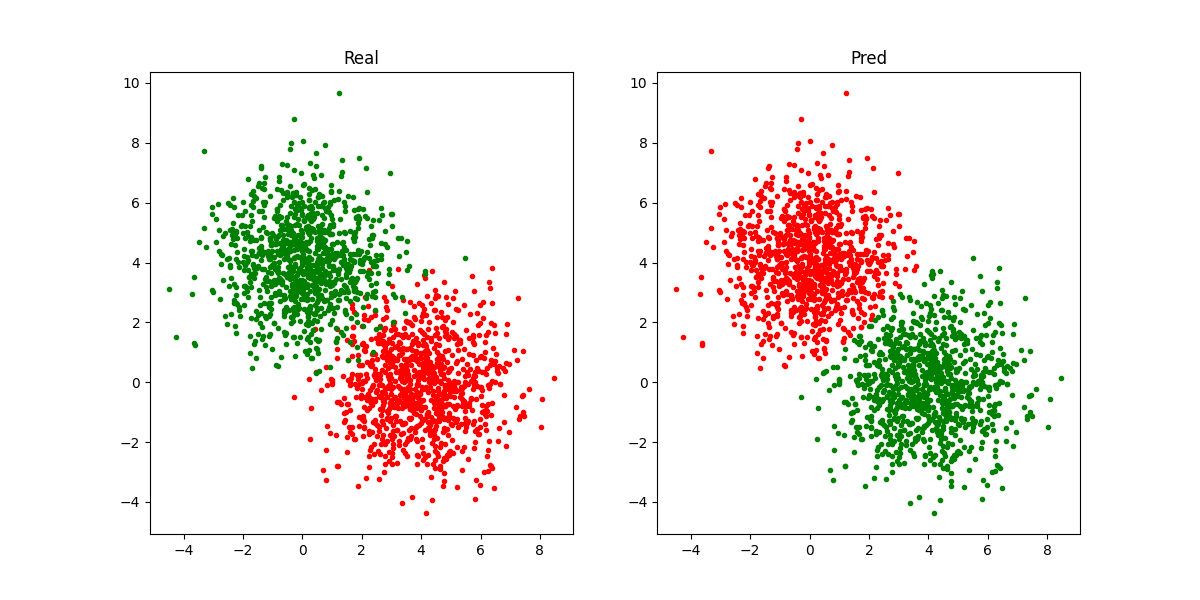
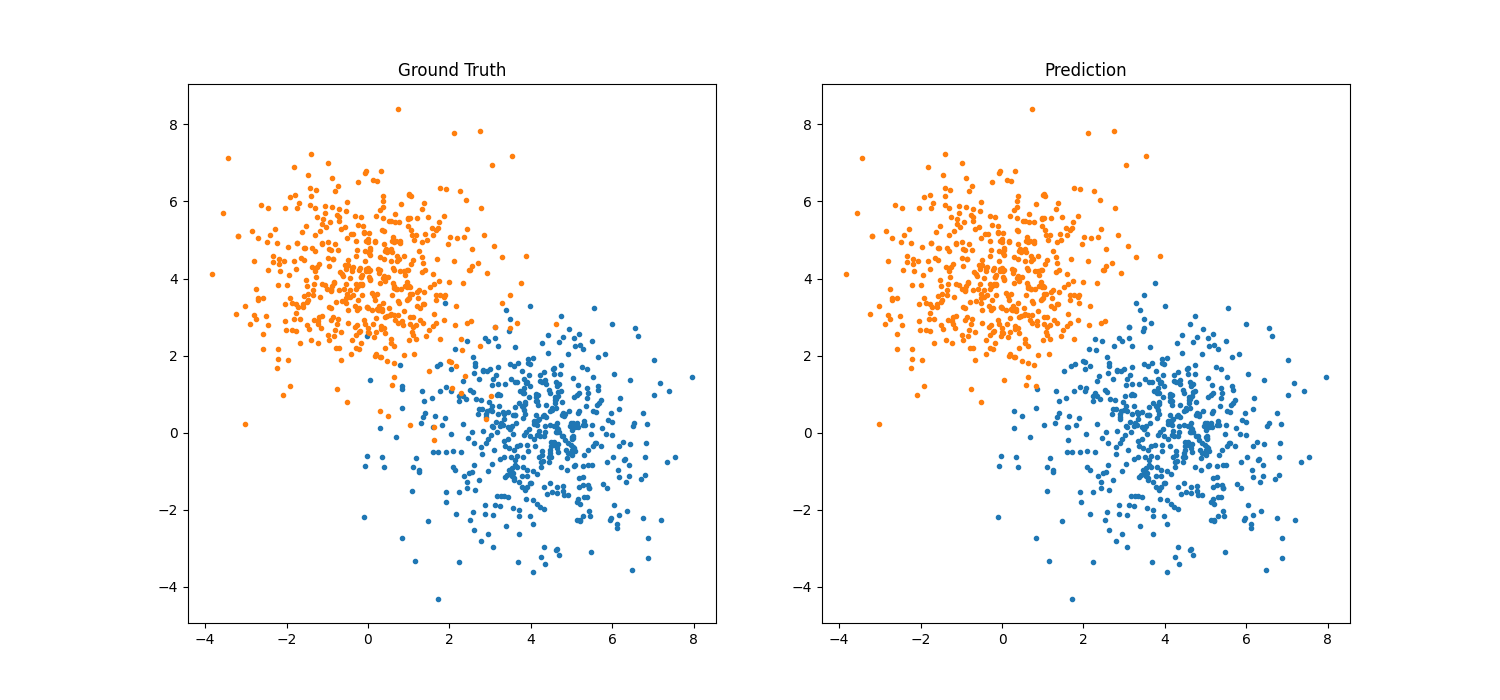
更新绘图

diff --git a/src/gmm.py b/src/gmm.py
@@ -64,32 +64,32 @@ class GMM:
         self.covs += self.cov_reg * np.eye(X.shape[1])  # 添加微小量防止奇异
 
 
-def load_data():
-    X = np.stack(
+def load_data(n_samples_per_class=500):
+    X = np.concatenate(
         [
-            np.random.multivariate_normal(mean=[4, 0], cov=[[2, 0], [0, 2]], size=[1000]),
-            np.random.multivariate_normal(mean=[0, 4], cov=[[2, 0], [0, 2]], size=[1000]),
+            np.random.multivariate_normal(mean=[4, 0], cov=[[2, 0], [0, 2]], size=[n_samples_per_class]),
+            np.random.multivariate_normal(mean=[0, 4], cov=[[2, 0], [0, 2]], size=[n_samples_per_class]),
         ]
     )
-    return X
+    y = np.array([0] * n_samples_per_class + [1] * n_samples_per_class)
+    return X, y
 
 
 if __name__ == "__main__":
-    X = load_data()
-    plt.figure(figsize=[12, 6])
+    X, y = load_data()
+    plt.figure(figsize=[15, 7])
     plt.subplot(1, 2, 1)
     plt.title("Ground Truth")
-    plt.scatter(X[0, :, 0], X[0, :, 1], marker=".")
-    plt.scatter(X[1, :, 0], X[1, :, 1], marker=".")
+    plt.scatter(X[y == 0, 0], X[y == 0, 1], marker=".")
+    plt.scatter(X[y == 1, 0], X[y == 1, 1], marker=".")
 
-    X = X.reshape(-1, 2)
     gmm = GMM(2)
     gmm.fit(X)
     y_pred = gmm(X)
 
-    x0, x1 = X[y_pred == 0], X[y_pred == 1]
     plt.subplot(1, 2, 2)
     plt.title("Prediction")
-    plt.scatter(x0[:, 0], x0[:, 1], marker=".")
-    plt.scatter(x1[:, 0], x1[:, 1], marker=".")
+    plt.scatter(X[y_pred == 0, 0], X[y_pred == 0, 1], marker=".")
+    plt.scatter(X[y_pred == 1, 0], X[y_pred == 1, 1], marker=".")
+
     plt.show()
